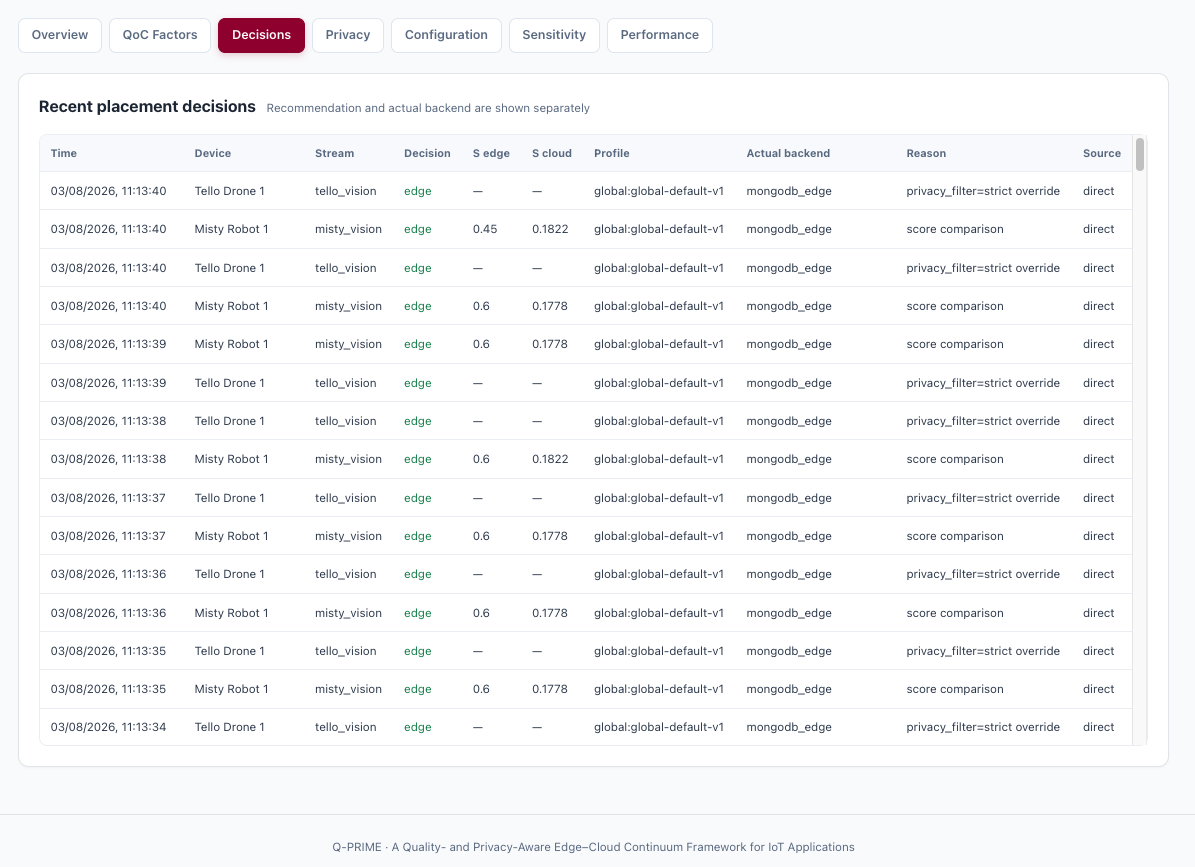
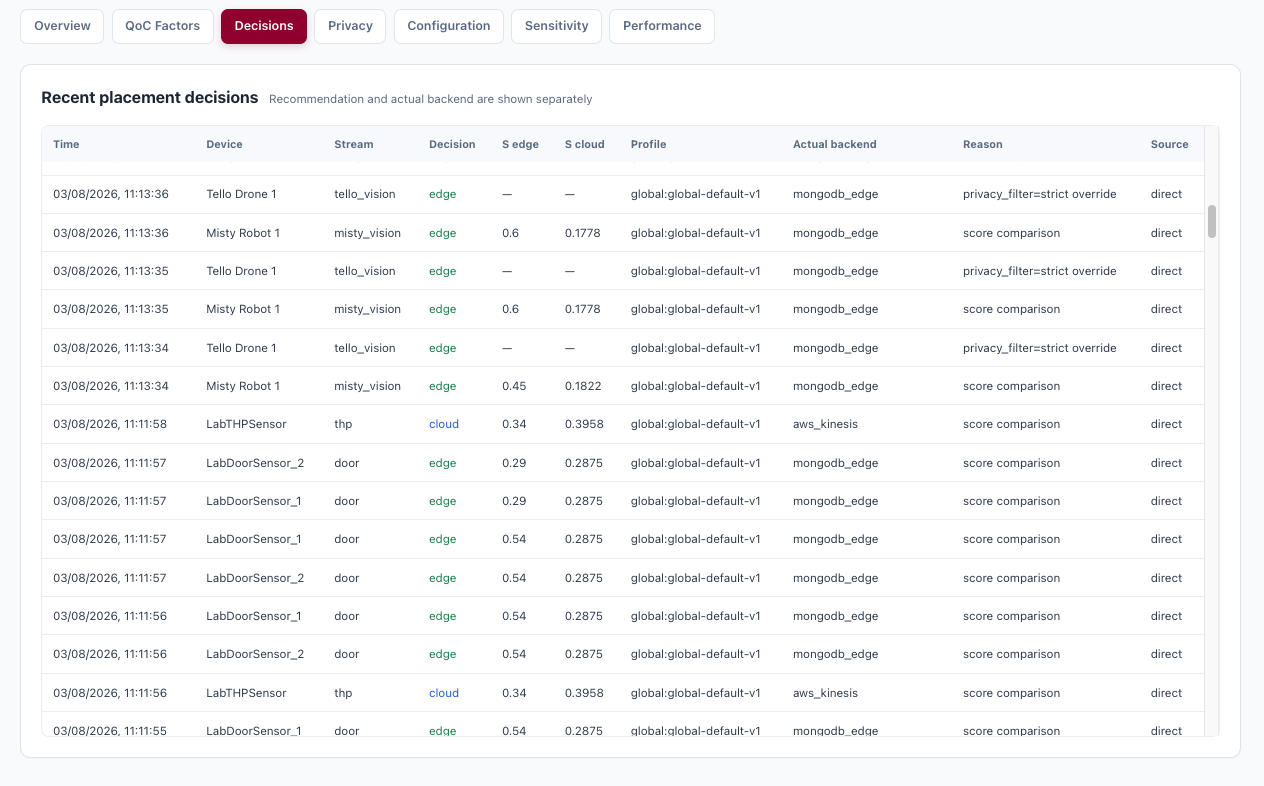
update query

diff --git a/services/core/qprime/query_router.py b/services/core/qprime/query_router.py
@@ -78,9 +78,12 @@ class QueryRouter:
             edge_rows, cloud_rows = 0, len(results)
             sources = ["presto:mongodb.cloud_records"]
         elif self.cloud.athena_configured():
-            edge_results = self._presto(self._rewrite(expression, "edge_records"))
-            cloud_results = self.cloud.query(self._athena_sql(expression))
-            results = self._merge_external(expression, edge_results, cloud_results)
+            if any(expression.find(kind) for kind in (exp.Avg,)):
+                edge_results, cloud_results, results = self._federated_average(expression)
+            else:
+                edge_results = self._presto(self._rewrite(expression, "edge_records"))
+                cloud_results = self.cloud.query(self._athena_sql(expression))
+                results = self._merge_external(expression, edge_results, cloud_results)
             edge_rows, cloud_rows = len(edge_results), len(cloud_results)
             sources = ["presto:mongodb.edge_records", "athena"]
             source = "federated"
@@ -181,8 +184,12 @@ class QueryRouter:
 
     def _athena_sql(self, expression: exp.Expression) -> str:
         rewritten = expression.copy()
-        physical = exp.to_table(
-            f"{self.cloud.athena_database}.{self.cloud.athena_table}"
+        # AWS Glue database names may contain characters (for example `-`)
+        # that are not valid in an unquoted SQL identifier. Build the AST from
+        # quoted identifier nodes instead of parsing a dotted string.
+        physical = exp.Table(
+            this=exp.to_identifier(self.cloud.athena_table, quoted=True),
+            db=exp.to_identifier(self.cloud.athena_database, quoted=True),
         )
         for table in list(rewritten.find_all(exp.Table)):
             if self._is_logical(table):
@@ -209,6 +216,43 @@ class QueryRouter:
         columns = [description[0] for description in cursor.description or []]
         return [dict(zip(columns, row)) for row in rows]
 
+    def _federated_average(
+        self, expression: exp.Expression
+    ) -> Tuple[List[Dict[str, Any]], List[Dict[str, Any]], List[Dict[str, Any]]]:
+        """Compute a correct weighted average over separate Edge and AWS data."""
+        averages = list(expression.find_all(exp.Avg))
+        if (
+            len(averages) != 1
+            or not isinstance(expression, exp.Select)
+            or len(expression.expressions) != 1
+            or expression.args.get("group") is not None
+        ):
+            raise QueryValidationError(
+                "Continuum currently supports one ungrouped AVG expression at a time"
+            )
+        average = averages[0]
+        value_expression = average.this.copy()
+        statistics = expression.copy()
+        statistics.set(
+            "expressions",
+            [
+                exp.alias_(exp.Sum(this=value_expression.copy()), "__qprime_sum", quoted=True),
+                exp.alias_(exp.Count(this=value_expression.copy()), "__qprime_count", quoted=True),
+            ],
+        )
+        edge_rows = self._presto(self._rewrite(statistics, "edge_records"))
+        cloud_rows = self.cloud.query(self._athena_sql(statistics))
+
+        def numeric(rows: List[Dict[str, Any]], key: str) -> float:
+            if not rows or rows[0].get(key) is None:
+                return 0.0
+            return float(rows[0][key])
+
+        total = numeric(edge_rows, "__qprime_sum") + numeric(cloud_rows, "__qprime_sum")
+        count = numeric(edge_rows, "__qprime_count") + numeric(cloud_rows, "__qprime_count")
+        alias = expression.expressions[0].alias_or_name or "average"
+        return edge_rows, cloud_rows, [{alias: total / count if count else None}]
+
     def _merge_external(
         self,
         expression: exp.Expression,
@@ -228,9 +272,7 @@ class QueryRouter:
             return merged[:QUERY_MAX_ROWS]
 
         if any(isinstance(item, exp.Avg) for item in aggregates):
-            raise QueryValidationError(
-                "AVG across external Edge/Cloud sources requires an explicit SUM and COUNT query"
-            )
+            raise QueryValidationError("unsupported federated AVG query shape")
         if any(
             isinstance(item, exp.Count) and isinstance(item.this, exp.Distinct)
             for item in aggregates

diff --git a/services/core/qprime/cloud.py b/services/core/qprime/cloud.py
@@ -86,6 +86,23 @@ class AwsCloudAdapter:
                 kwargs["aws_session_token"] = self.session_token
         return boto3.client(service, **kwargs)
 
+    @staticmethod
+    def _athena_value(value: Optional[str], column_type: str) -> Any:
+        """Convert Athena's string result cells to JSON-native scalar values."""
+        if value is None:
+            return None
+        kind = str(column_type or "").lower()
+        try:
+            if kind in {"tinyint", "smallint", "integer", "int", "bigint"}:
+                return int(value)
+            if kind.startswith(("decimal", "double", "real", "float")):
+                return float(value)
+            if kind == "boolean":
+                return value.strip().lower() == "true"
+        except ValueError:
+            return value
+        return value
+
     def configured(self) -> bool:
         if not self.enabled or not self.region:
             return False
@@ -189,13 +206,25 @@ class AwsCloudAdapter:
 
         paginator = client.get_paginator("get_query_results")
         rows: List[List[Optional[str]]] = []
+        column_types: List[str] = []
         for page in paginator.paginate(QueryExecutionId=execution_id):
+            if not column_types:
+                column_types = [
+                    str(column.get("Type") or "")
+                    for column in page["ResultSet"].get("ResultSetMetadata", {}).get("ColumnInfo", [])
+                ]
             for row in page["ResultSet"].get("Rows", []):
                 rows.append([cell.get("VarCharValue") for cell in row.get("Data", [])])
         if not rows:
             return []
         headers = [str(value or "") for value in rows[0]]
-        return [dict(zip(headers, values)) for values in rows[1:]]
+        return [
+            {
+                header: self._athena_value(value, column_types[index] if index < len(column_types) else "")
+                for index, (header, value) in enumerate(zip(headers, values))
+            }
+            for values in rows[1:]
+        ]
 
 
 cloud_adapter = AwsCloudAdapter()

diff --git a/services/nlp/app.py b/services/nlp/app.py
@@ -241,11 +241,31 @@ def aggregate_summary(rows: List[Dict[str, Any]], question: str) -> Optional[Dic
                 text = f"{count:,} {noun}."
             return {"ok": True, "text": text, "meta": {"aggregate": True}}
 
-    value = row.get("avg_temperature_today")
-    if isinstance(value, (int, float)) and not isinstance(value, bool):
+    for key, value in row.items():
+        if not key.startswith(("avg_", "average_", "mean_")):
+            continue
+        metric = key.split("_", 1)[1].replace("_", " ") or "value"
+        if metric.endswith(" today"):
+            metric = metric[:-6]
+            period = " today"
+        elif "yesterday" in question_lower:
+            period = " yesterday"
+        elif "today" in question_lower:
+            period = " today"
+        else:
+            period = ""
+        if value is None:
+            return {
+                "ok": True,
+                "text": f"No {metric} readings were found{period}.",
+                "meta": {"aggregate": True, "empty": True},
+            }
+        if not isinstance(value, (int, float)) or isinstance(value, bool):
+            continue
+        units = {"temperature": "\N{DEGREE SIGN}C", "humidity": "%", "pressure": " hPa"}
         return {
             "ok": True,
-            "text": f"Average temperature today is {float(value):.1f}\N{DEGREE SIGN}C.",
+            "text": f"Average {metric}{period} is {float(value):.1f}{units.get(metric, '')}.",
             "meta": {"aggregate": True},
         }
     return None

diff --git a/services/nlp/AINatural.py b/services/nlp/AINatural.py
@@ -1256,6 +1256,19 @@ def try_temperature_template(user: str) -> Optional[str]:
     # default window
     n, unit = 1, "hour"
 
+    # A calendar day is not the same as the previous 24 hours. Keep this
+    # explicit so "average temperature yesterday" does not fall through to
+    # the one-hour default window below.
+    if avg_temp and re.search(r"\byesterday\b", t):
+        return (
+            f"SELECT AVG(contextvalue.temperature) AS avg_temperature\n"
+            f"FROM {get_table_fqn()}\n"
+            f"WHERE resource.device_name = 'LabTHPSensor'\n"
+            f"  AND contextattribute = 'thp'\n"
+            f'  AND from_unixtime("timestamp") >= date_add(\'day\', -1, date_trunc(\'day\', now()))\n'
+            f'  AND from_unixtime("timestamp") <  date_trunc(\'day\', now());'
+        )
+
     m_h = re.search(r"\b(last|past)\s+(\d+)\s+hours?\b", t)
     m_d = re.search(r"\b(last|past)\s+(\d+)\s+days?\b", t)
     m_w = re.search(

diff --git a/README.md b/README.md
@@ -84,14 +84,17 @@ MongoDB database `qprime` contains:
 - `cloud_records`: locally retained Cloud decisions when AWS is absent or a write fails;
 - `placement_decisions`: immutable recommendations, scores, effective profile, and actual backend;
 - `weight_profiles` and `configuration_history`: versioned global/stream/device policy and audit history;
+- `cloud_configuration`: active AWS settings and encrypted static credentials;
 - `qoc_baselines`: persistent adaptive QoC state; and
 - `query_metrics`: query latency and source evidence.
 
-Configuration resolution is `device → stream → global`. The `/qprime` Configuration tab exposes the complete policy JSON, including direct/per-stream/metric/AHP weights, SLA thresholds, correctness rules, required fields, privacy controls, and adaptive-baseline parameters.
+Configuration resolution is `device → stream → global`. The `/qprime` Configuration tab provides structured controls for per-stream and global direct weights, plus the three-criterion AHP pairwise matrix. Saving a profile activates it for future records; it does not move or recompute existing records.
 
 ## AWS Cloud
 
-Set `AWS_CLOUD_ENABLED=true` plus the variables in `.env.example`. Writes support Firehose or Kinesis; queries use Athena when its database, table, workgroup, and output location are configured. Credentials use the normal AWS environment/provider chain. Do not commit credentials.
+Configure AWS from **Q-PRIME Dashboard → Configuration → AWS Cloud storage**. The form persists the region, Firehose or Kinesis delivery stream, and optional Athena database/table/workgroup/output location in MongoDB. Static access keys, secret keys, and optional session tokens are encrypted before persistence and are write-only in the UI and API.
+
+The Compose stack stores the encryption key in its `qprime-core-secrets` named volume. Keep this volume together with MongoDB data across restarts; deleting it makes existing encrypted credentials unreadable and requires entering them again. AWS environment variables remain a legacy fallback only when no dashboard configuration has been saved.
 
 ## Querying
 
@@ -102,10 +105,10 @@ GET /api/query?query=<SQL>&isCloud=<continuum|false|true>
 ```
 
 - `false`: MongoDB `edge_records` through PrestoDB;
-- `true`: Athena when configured, otherwise MongoDB `cloud_records`; and
-- `continuum`: both current sources.
+- `true`: configured Athena database/table when AWS Cloud is enabled, otherwise MongoDB `cloud_records`; and
+- `continuum`: Edge MongoDB plus the active Cloud source (Athena when enabled, otherwise local MongoDB fallback).
 
-Only one read-only statement targeting the logical table is accepted. Non-aggregate queries receive a server-side row limit.
+Only one read-only statement targeting the logical table is accepted. Non-aggregate queries receive a server-side row limit. For an active Athena Cloud source, Cloud SQL is rewritten internally from `qprime.continuum` to the configured Athena database/table. A single ungrouped `AVG(...)` Continuum query is combined correctly as a weighted average from each tier's `SUM` and `COUNT`; grouped or multi-average Continuum queries are not currently supported.
 
 ## Core API
 
@@ -120,6 +123,8 @@ PUT  /api/config
 GET|POST /api/config/profiles
 GET  /api/config/history
 POST /api/config/ahp
+GET|PUT /api/cloud/config
+POST /api/cloud/config/probe
 GET  /api/results/{overview,decisions,qoc,privacy,performance}
 POST /api/results/sensitivity
 ```

diff --git a/documents/METRICS.md b/documents/METRICS.md
@@ -58,6 +58,13 @@ Profiles can be scoped globally, to one supported stream, or to one device.
 Every save creates a new immutable MongoDB-backed profile version. Existing
 records and decisions are not recalculated or moved.
 
+## Query sources
+
+The query application offers **Edge**, **Cloud**, and **Continuum** scopes.
+Edge reads MongoDB through PrestoDB. Cloud reads Athena when AWS Cloud is
+active, otherwise the local MongoDB Cloud-fallback collection. Continuum reads
+both current sources.
+
 ## Sensitivity
 
 Sensitivity replay evaluates the stored decision log under temporary temporal,
